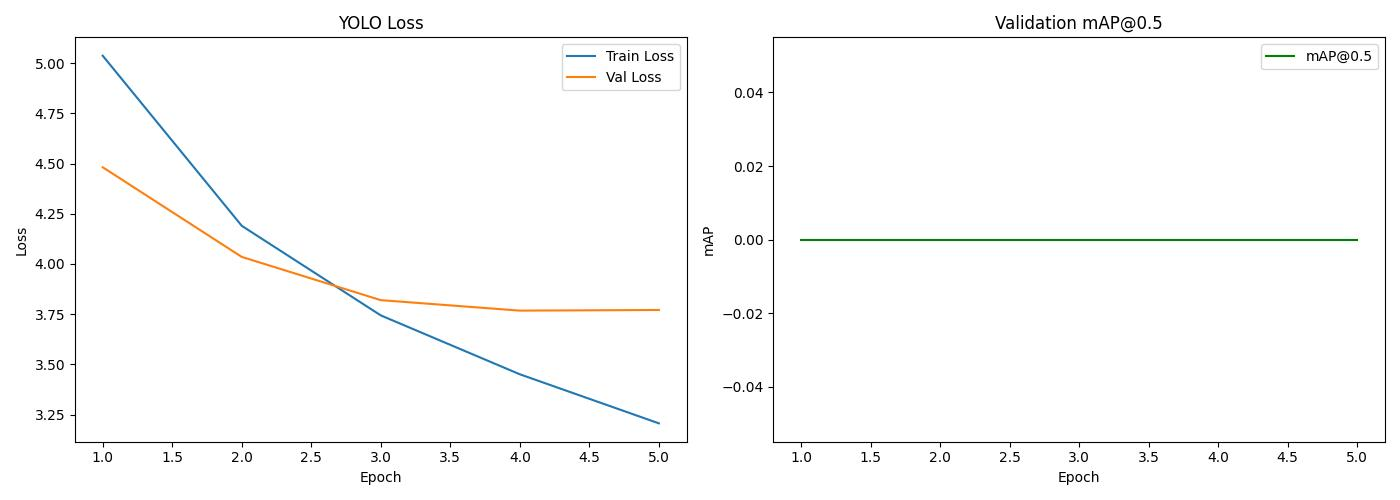
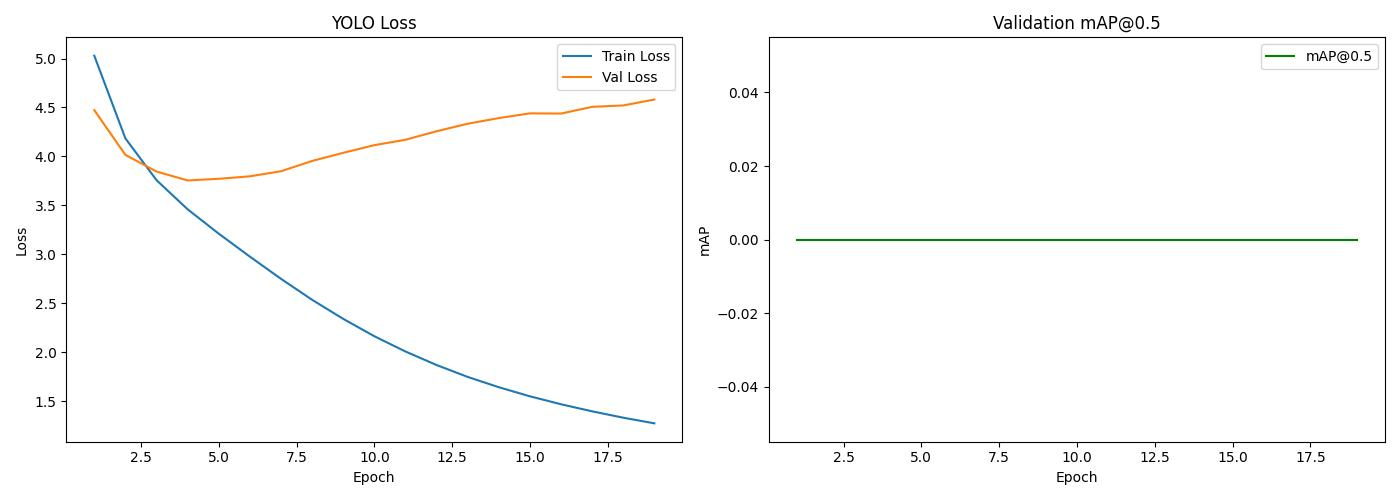
yolo loss modif + adding dropout because mAP=0 after 18 epochs

diff --git a/object_detection.py b/object_detection.py
@@ -119,13 +119,16 @@ class DinoDetector(DinoClassifier):
         del self.classifier
 
         out_ch = NUM_ANCHORS * (5 + NUM_CLASSES)   # 255
+    
         self.det_head = nn.Sequential(
             nn.Conv2d(FEAT_DIM, 512, kernel_size=3, padding=1),
             nn.BatchNorm2d(512),
             nn.LeakyReLU(0.1, inplace=True),
+            nn.Dropout2d(p=0.1),                  # dropout
             nn.Conv2d(512, 256, kernel_size=3, padding=1),
             nn.BatchNorm2d(256),
             nn.LeakyReLU(0.1, inplace=True),
+            nn.Dropout2d(p=0.1),                  # dropout again
             nn.Conv2d(256, out_ch, kernel_size=1),
         )
 
@@ -239,24 +242,16 @@ class DinoDetector(DinoClassifier):
 # =============================================================================
 
 def yolo_loss(
-    predictions: torch.Tensor,
-    targets: list[dict],
-    anchors: torch.Tensor,
-    device: torch.device,
+    predictions:  torch.Tensor,
+    targets:      list[dict],
+    anchors:      torch.Tensor,
+    device:       torch.device,
     lambda_coord: float = 5.0,
-    lambda_cls: float   = 1.0,
+    lambda_cls:   float = 1.0,
+    lambda_noobj: float = 0.5,    # ← YOLOv3 paper §2.2
+    ignore_thresh: float = 0.5,   # ← YOLOv3 paper §2.2
 ) -> torch.Tensor:
-    """
-    YOLOv3-style loss over a batch.
 
-    Args:
-        predictions : (B, 3, 16, 16, 85)
-        targets     : list of dicts with 'boxes' (N,4) xyxy norm, 'labels' (N,)
-        anchors     : (3, 2)
-        device      : torch device
-
-    Returns: scalar loss
-    """
     B, A, H, W, _ = predictions.shape
     C = NUM_CLASSES
 
@@ -276,7 +271,6 @@ def yolo_loss(
         cy = (boxes[:, 1] + boxes[:, 3]) / 2
         bw =  boxes[:, 2] - boxes[:, 0]
         bh =  boxes[:, 3] - boxes[:, 1]
-
         gi = (cx * W).long().clamp(0, W - 1)
         gj = (cy * H).long().clamp(0, H - 1)
 
@@ -287,47 +281,54 @@ def yolo_loss(
         best_anchor = (inter / union.clamp(min=1e-6)).argmax(dim=1)
 
         for n in range(len(boxes)):
-            a   = best_anchor[n].item()
-            gi_ = gi[n].item()
-            gj_ = gj[n].item()
-
+            a, gi_, gj_ = best_anchor[n].item(), gi[n].item(), gj[n].item()
             tgt_obj [b_idx, a, gj_, gi_]    = 1.0
             obj_mask[b_idx, a, gj_, gi_]    = True
             tgt_xy  [b_idx, a, gj_, gi_]    = torch.stack([
                 cx[n] * W - gi[n].float(),
-                cy[n] * H - gj[n].float(),
-            ])
+                cy[n] * H - gj[n].float()])
             tgt_wh  [b_idx, a, gj_, gi_]    = torch.stack([
                 torch.log(bw[n] / anchors[a, 0].clamp(min=1e-6)),
-                torch.log(bh[n] / anchors[a, 1].clamp(min=1e-6)),
-            ])
+                torch.log(bh[n] / anchors[a, 1].clamp(min=1e-6))])
             cls_idx = labels[n].item()
             if 0 <= cls_idx < C:
                 tgt_cls[b_idx, a, gj_, gi_, cls_idx] = 1.0
 
-    bce        = nn.BCELoss()
-    mse        = nn.MSELoss()
+    mse        = nn.MSELoss(reduction="sum")
+    bce_elem   = nn.BCELoss(reduction="none")
     bce_logits = nn.BCEWithLogitsLoss()
 
-    pred_obj = torch.sigmoid(predictions[..., 4])
-    loss_obj = bce(pred_obj, tgt_obj)
+    # ── Objectness: split positive / negative with ignore threshold ──────────
+    pred_obj    = torch.sigmoid(predictions[..., 4])
+    obj_loss_map = bce_elem(pred_obj, tgt_obj)          # (B, A, H, W)
 
+    # Ignore background cells with high predicted confidence (YOLOv3 §2.2)
+    with torch.no_grad():
+        ignore_mask = (~obj_mask) & (pred_obj > ignore_thresh)
+
+    loss_obj   = obj_loss_map[obj_mask].mean() if obj_mask.any() else torch.tensor(0., device=device)
+    noobj_mask = ~obj_mask & ~ignore_mask
+    loss_noobj = obj_loss_map[noobj_mask].mean() if noobj_mask.any() else torch.tensor(0., device=device)
+
+    # ── Box regression + classification over positive cells only ────────────
     if obj_mask.any():
         pred_xy = torch.stack([
             torch.sigmoid(predictions[..., 0]),
             torch.sigmoid(predictions[..., 1]),
         ], dim=-1)
-        pred_wh = predictions[..., 2:4]
-        loss_xy = mse(pred_xy[obj_mask], tgt_xy[obj_mask])
-        loss_wh = mse(pred_wh[obj_mask], tgt_wh[obj_mask])
+        pred_wh  = predictions[..., 2:4]
+        loss_xy  = mse(pred_xy[obj_mask], tgt_xy[obj_mask]) / B
+        loss_wh  = mse(pred_wh[obj_mask], tgt_wh[obj_mask]) / B
         loss_cls = bce_logits(predictions[..., 5:][obj_mask], tgt_cls[obj_mask])
     else:
-        loss_xy  = torch.tensor(0.0, device=device)
-        loss_wh  = torch.tensor(0.0, device=device)
-        loss_cls = torch.tensor(0.0, device=device)
+        loss_xy  = torch.tensor(0., device=device)
+        loss_wh  = torch.tensor(0., device=device)
+        loss_cls = torch.tensor(0., device=device)
 
-    return lambda_coord * (loss_obj + loss_xy + loss_wh) + lambda_cls * loss_cls
-
+    return (lambda_coord * (loss_xy + loss_wh)
+            + loss_obj
+            + lambda_noobj * loss_noobj
+            + lambda_cls * loss_cls)
 
 # =============================================================================
 # 4.  DECODE PREDICTIONS + NMS
